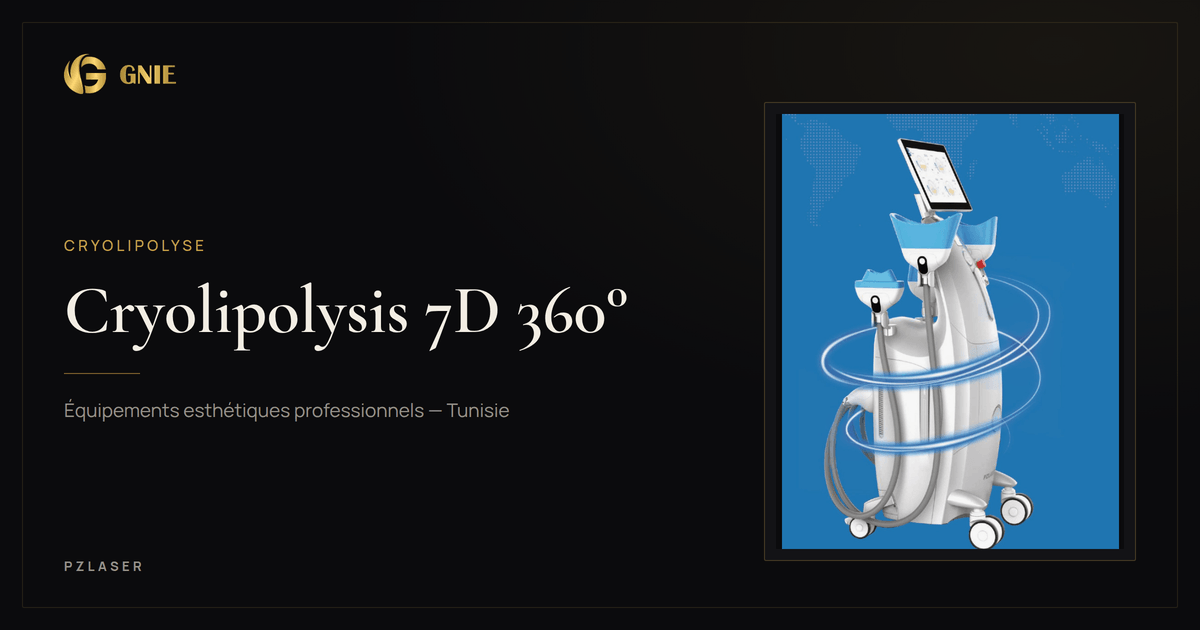
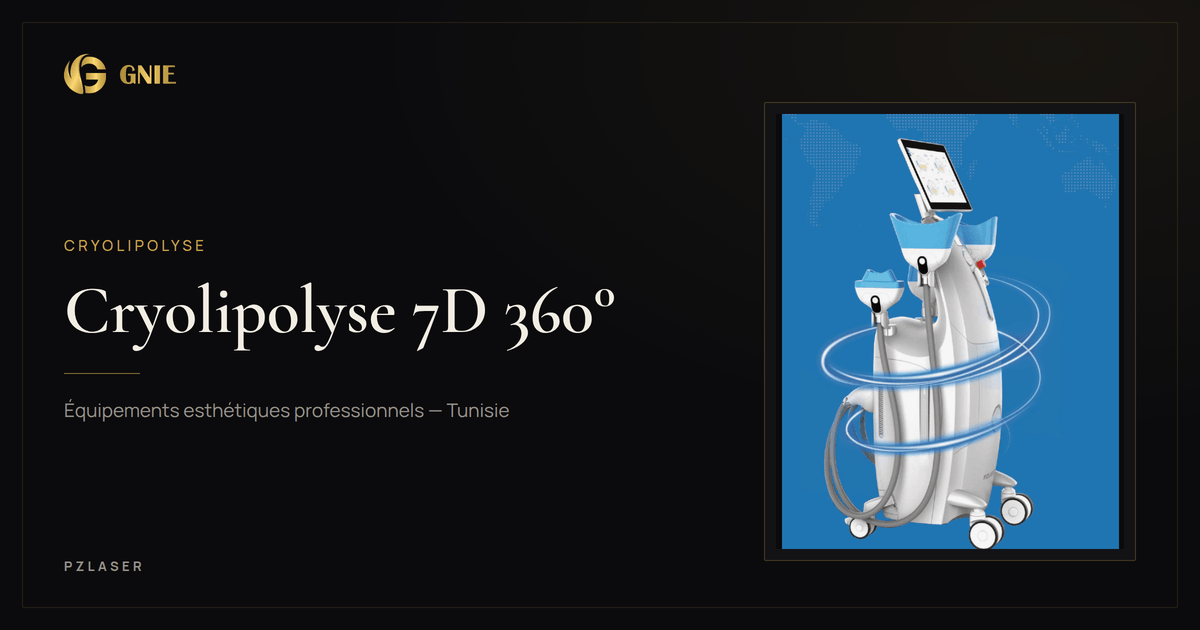
QA sweep fixes: empty e-mail row, ambiguous controls, French names
A full sweep of all 36 pages found three things worth fixing, one of them a
regression I introduced two commits ago.

The empty e-mail row. Removing the invented address left ContactDetails
rendering "E-mail —" on both contact pages: a label advertising a channel
that does not exist, on the site's conversion page, and a direct breach of
the rule the WhatsApp row already follows — no value, no row. Now the row
disappears entirely until an address is confirmed.

Twenty-four indistinguishable controls. Every quick-view button was named
"Aperçu rapide" and every comparison checkbox "Comparer", so a screen-reader
user navigating by control met twelve of each with nothing to tell them
apart — the comparison feature was effectively unusable that way. Both now
carry the machine name in their accessible name while the visible text stays
short. This passed Lighthouse, because a name existed; it just was not a
useful one.

French product names. The French pages contradicted themselves: a <title>
reading "Laser CO2 Fractionné" above an <h1> reading "Fractional CO2 Laser",
and the same for the Cryolipolyse. Product names are not normally
translated, but "Cryolipolysis" and "Fractional" are ordinary English words
sitting under category pills that already read "Cryolipolyse" and "Laser".
Renamed on the French side only; the English pages are untouched. This
propagates automatically to the h1, breadcrumb, Product schema, alt text,
related cards, the contact dropdown and the social cards.
[…]

Changed region(s): [[0.3083, 0.4524, 0.5242, 0.573]]

diff --git a/src/i18n/ui.ts b/src/i18n/ui.ts
@@ -55,6 +55,9 @@ export const ui = {
     "machine.views": "Vues du produit",
 
     "catalog.title": "Nos machines",
+    /* The <title> is a search result, not a heading: it carries the terms a
+       clinic actually types. The h1 above stays short on the page itself. */
+    "catalog.seoTitle": "Machines esthétiques professionnelles en Tunisie",
     "catalog.intro":
       "Douze équipements professionnels, sept familles de technologies, sélectionnés pour les cliniques et instituts exigeants.",
     "catalog.all": "Toutes",
@@ -132,6 +135,7 @@ export const ui = {
     "machine.views": "Product views",
 
     "catalog.title": "Our machines",
+    "catalog.seoTitle": "Professional aesthetic machines in Tunisia",
     "catalog.intro":
       "Twelve professional devices across seven technology families, selected for demanding clinics and institutes.",
     "catalog.all": "All",

diff --git a/src/content.config.ts b/src/content.config.ts
@@ -40,7 +40,9 @@ const machines = defineCollection({
       featured: z.boolean().default(false),
       order: z.number(),
       seo: z.object({
-        title: z.string().max(60),
+        /* 53, not 60: the layout appends " | GNIE" (7 characters), so this
+           is what keeps the RENDERED title inside the 60-char guideline. */
+        title: z.string().max(53),
         description: z.string().max(155),
       }),
     }),

diff --git a/src/content/machines/fr/laser-co2-fractionne.md b/src/content/machines/fr/laser-co2-fractionne.md
@@ -1,5 +1,5 @@
 ---
-name: "Fractional CO2 Laser"
+name: "Laser CO2 Fractionné"
 category: "laser"
 tagline: "Le laser CO2 fractionné 10600 nm à tube RF Coherent (USA) pour un resurfaçage cutané de précision : peau lissée, texture affinée, cicatrices visiblement atténuées."
 excerpt: "Laser CO2 fractionné 70 W équipé d'un tube RF Coherent importé des USA et d'un bras laser 7 articulations sud-coréen. Resurfaçage cutané, atténuation des cicatrices d'acné et des taches de rousseur."
@@ -66,6 +66,6 @@ related: ["ultra-picoiris", "hydrafacial-10-en-1"]
 featured: false
 order: 8
 seo:
-  title: "Laser CO2 Fractionné — resurfaçage cutané de précision"
+  title: "Laser CO2 Fractionné — resurfaçage de précision"
   description: "Laser CO2 fractionné 70 W, tube RF Coherent (USA), bras 7 articulations. Resurfaçage, cicatrices d'acné, raffermissement. Distribué par GNIE."
 ---

diff --git a/src/content/machines/fr/cryolipolyse-7d-360.md b/src/content/machines/fr/cryolipolyse-7d-360.md
@@ -1,5 +1,5 @@
 ---
-name: "Cryolipolysis 7D 360°"
+name: "Cryolipolyse 7D 360°"
 brand: "PZLASER"
 category: "cryolipolyse"
 tagline: "La cryolipolyse de 4e génération à refroidissement 360° qui sculpte la silhouette du menton aux genoux."
@@ -74,6 +74,6 @@ related: ["v-shape-platinum", "ems-16"]
 featured: true
 order: 2
 seo:
-  title: "Cryolipolysis 7D 360° — Cryolipolyse 4e génération"
+  title: "Cryolipolyse 7D 360° — 7 applicateurs, 4 zones"
   description: "Cryolipolyse 360° PZLASER : 7 applicateurs, -11 °C, 4 zones en 40 min et jusqu'à 35 % de graisse en moins en une séance selon le fabricant."
 ---

diff --git a/src/content/machines/fr/electrolyse-5-en-1.md b/src/content/machines/fr/electrolyse-5-en-1.md
@@ -57,6 +57,6 @@ related: ["laser-diode-epilation", "hydrafacial-10-en-1"]
 featured: false
 order: 10
 seo:
-  title: "Électrolyse 5-en-1 — épilation permanente multifonction"
+  title: "Électrolyse 5-en-1 — épilation permanente"
   description: "Appareil 5-en-1 d'épilation permanente : aiguilles isolées, pincette isolée, marteau chaud/froid et stylo plasma. Protocole complet sur écran tactile."
 ---
